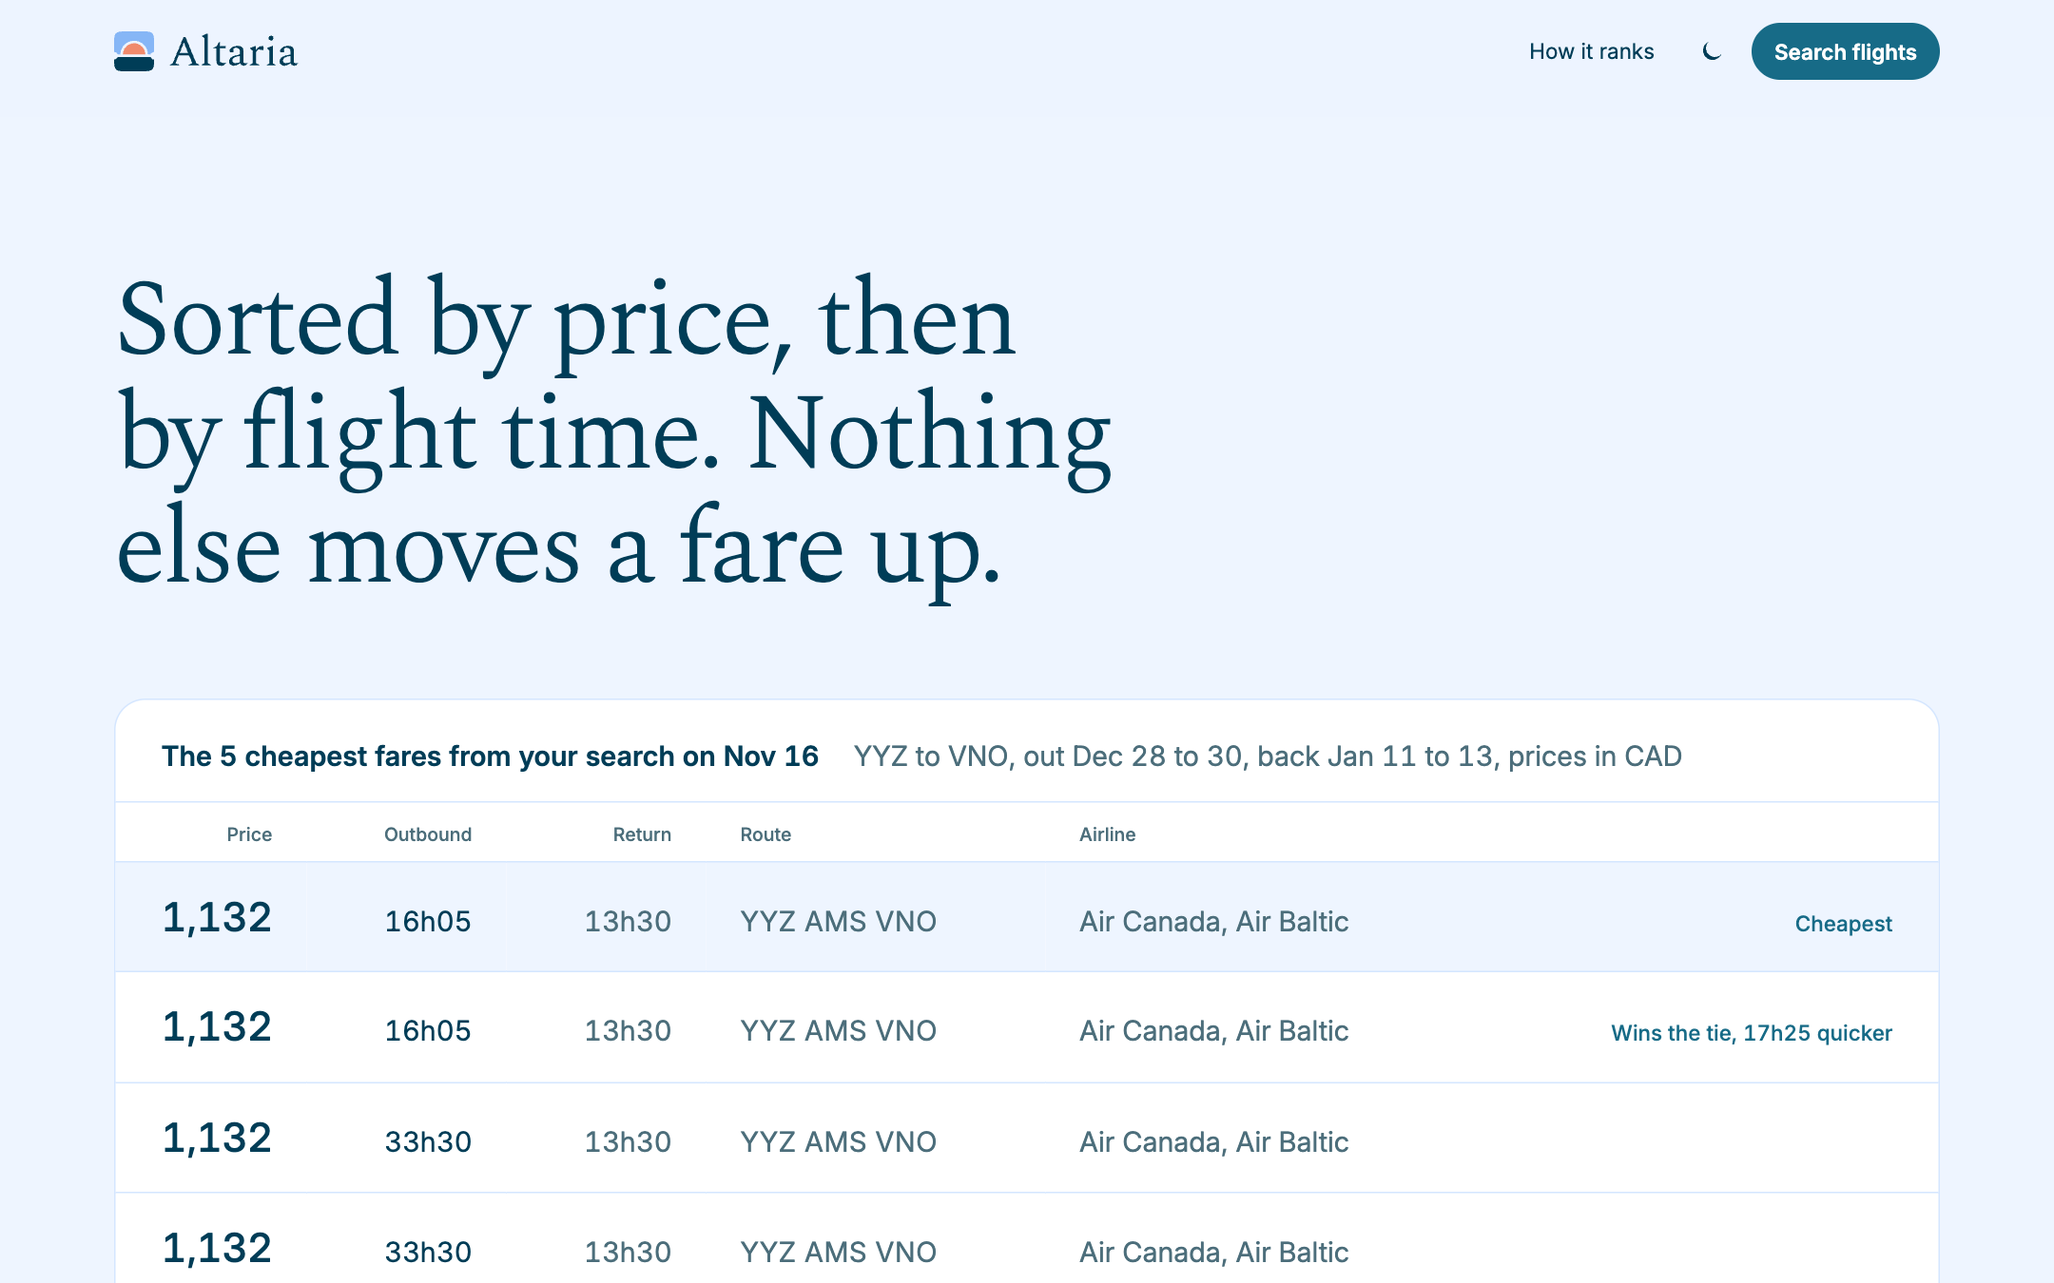
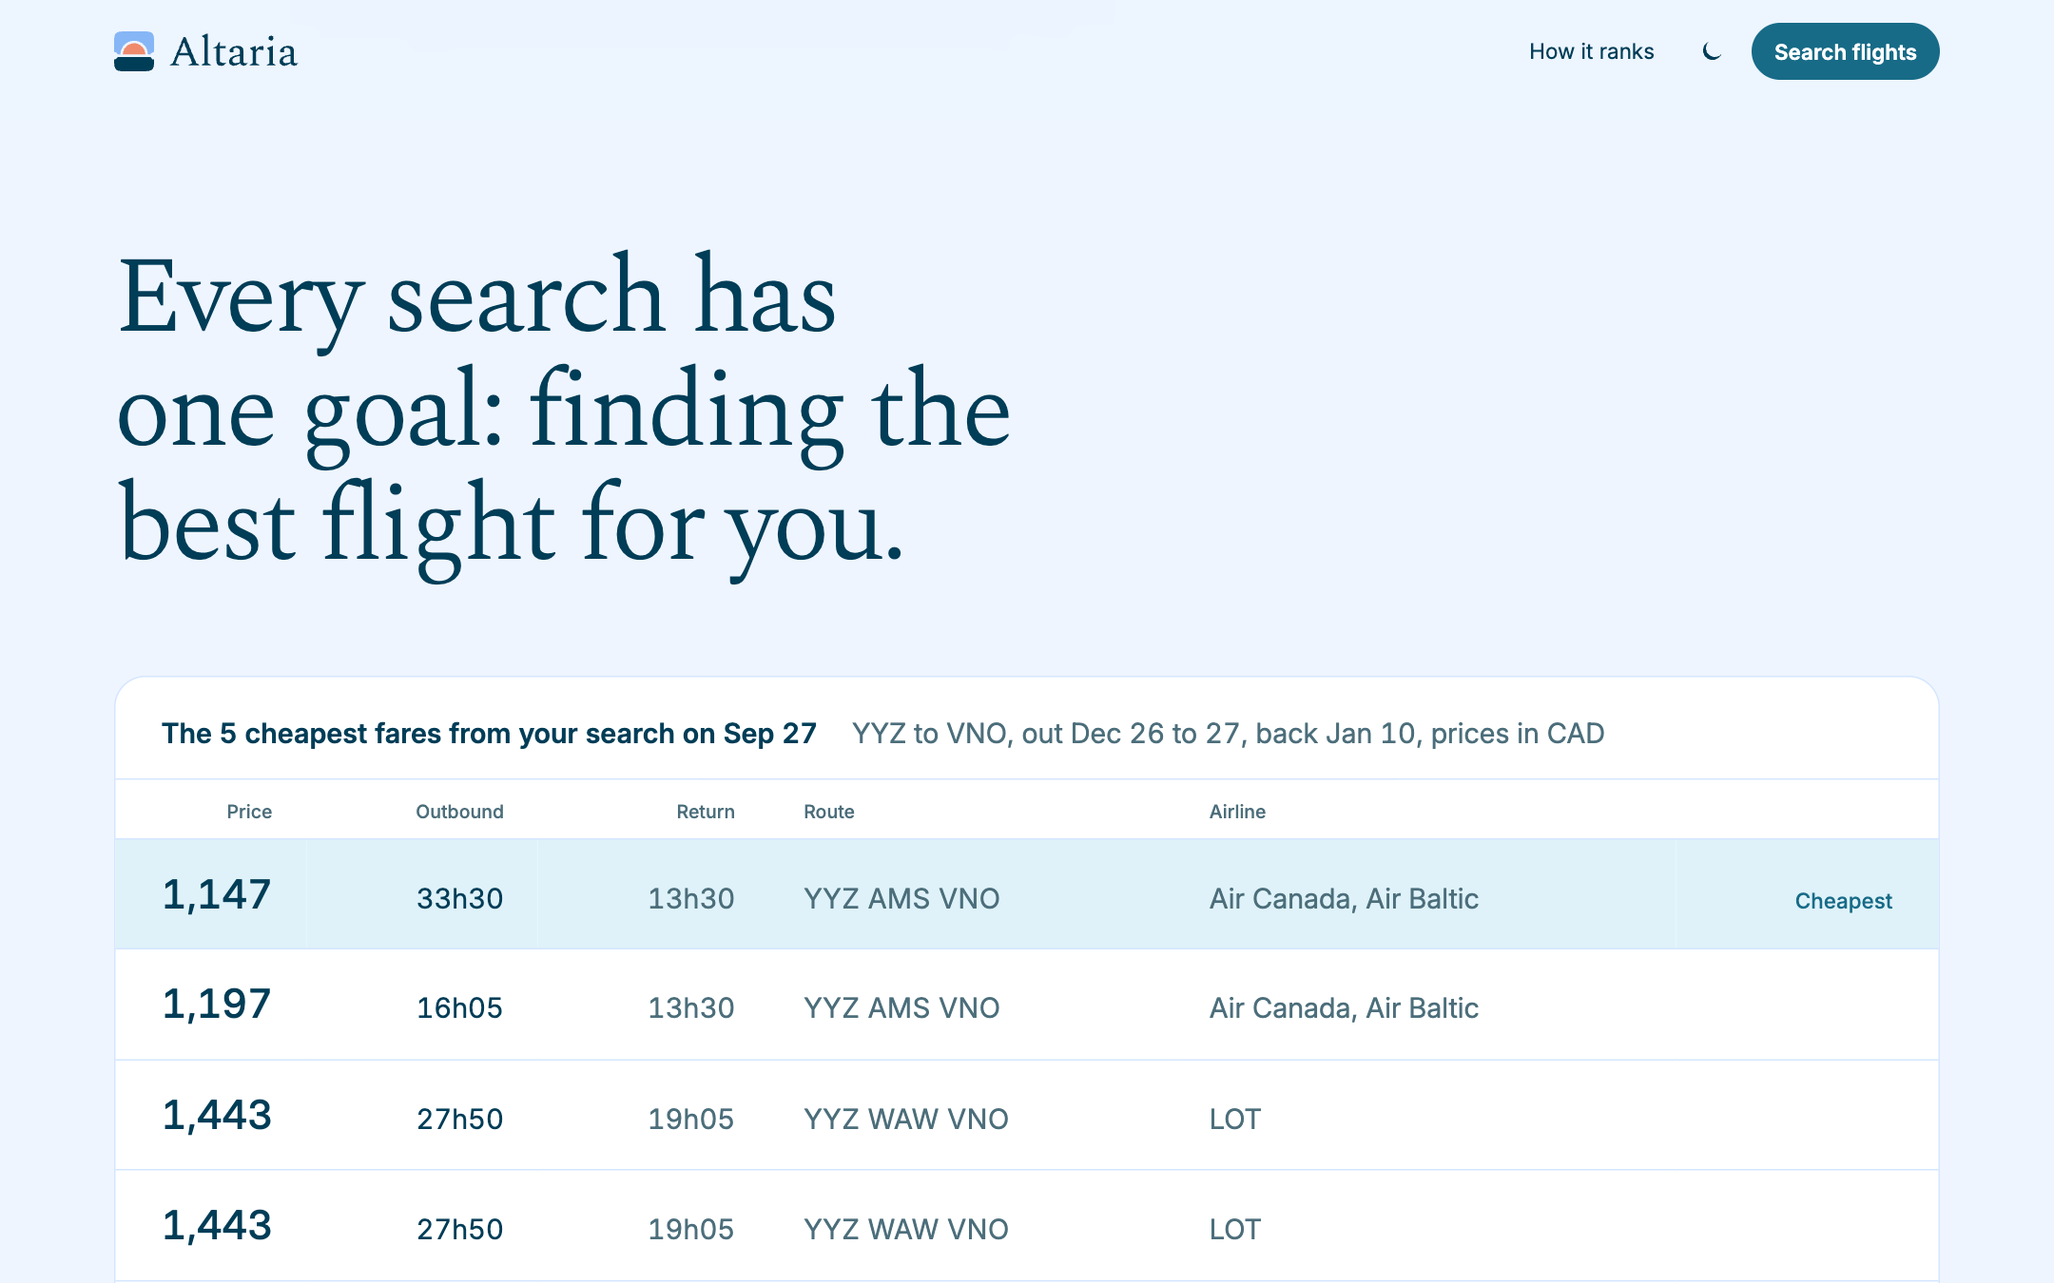
Update README, docs and screenshots

diff --git a/README.md b/README.md
@@ -1,8 +1,10 @@
 # Altaria
 
-A flight search you run yourself. It prices every pair of dates you give it and sorts round trips by price, then by flight time. Nothing is sponsored, and nothing is estimated: every fare on the page came back from a search.
+A round-trip flight search, ranked for you. It prices every pair of dates you give it and sorts round trips by price, then by flight time. Nothing is sponsored, and nothing is estimated: every fare on the page came back from a search.
 
-![The hero: the headline over a sky of clouds, with a boarding pass holding the cheapest fare of the last search](docs/hero.png)
+Try it at [altaria.macwell.workers.dev](https://altaria.macwell.workers.dev), or run it yourself.
+
+![The hero: "The sky, ranked for you" over a sky of clouds, with a boarding pass holding the cheapest fare of the last search](docs/hero.png)
 
 ## What it does
 
@@ -16,7 +18,7 @@ A flight search you run yourself. It prices every pair of dates you give it and 
 | ![The ranking board: the five cheapest fares of the last search in price order](docs/ranking-board.png) | ![The trip box: a sentence typed in plain English has filled the search blanks](docs/trip-box.png) |
 | ![A finished search at night: the cheapest fare as a headline, then the timetable](docs/results-dark.png) | ![The hero at night](docs/hero-dark.png) |
 
-The fares in these screenshots are from real saved searches. The search shown at night is a saved run replayed and the trip box's answer is a canned one, so taking the screenshots queried neither Google nor a model.
+The fares in these screenshots come from one real saved search, replayed, and the trip box's answer is a canned one, so taking the screenshots queried neither Google nor a model.
 
 ## Run it
 
@@ -30,6 +32,15 @@ cd web && npm install && npm run build && cd ..
 ```
 
 Then open http://localhost:8000. The server listens on 127.0.0.1 only.
+
+The public version is a Cloudflare Worker in `worker/`. Build `web/` first, then from `worker/`:
+
+```
+npx wrangler@4 dev       # http://localhost:8787
+npx wrangler@4 deploy
+```
+
+Its trip reader uses Gemini and needs a `GEMINI_API_KEY`: in `worker/.dev.vars` for `wrangler dev`, and set with `npx wrangler@4 secret put GEMINI_API_KEY` once deployed.
 
 From the command line, with both sources:
 
@@ -45,15 +56,18 @@ search.py   fetch fares (Google Flights, ITA Matrix), normalise, convert currenc
 server.py   standard-library HTTP server: serves the built site, streams each search as Server-Sent Events
 ai.py       the trip reader: a model fills the form's blanks, and every value is checked before the page sees it
 web/        the site: React and Vite in plain JavaScript, plain CSS, no UI kit
+worker/     the public site: a Cloudflare Worker serving the same page and API, Google only, with daily caps
 ```
 
 A search starts in the form's submit handler. The server runs one date pair at a time and streams a plan, then progress for each pair, then the ranked rows. The page shows a segmented progress rail while it waits. Every run is saved, and the newest one feeds the fare pass in the hero and the ranking board.
+
+The Worker runs on Cloudflare's free plan, which allows each request 10ms of CPU and 50 subrequests. So it only checks the query and answers with the plan, and the page runs the search itself, one Google request per call. `web/src/flights.js` is the JavaScript port of `search.py`'s Google side, and `worker/ai.js` ports `ai.py`'s checks. There the fare pass and the board show the visitor's own last search, kept in their browser.
 
 ## Design
 
 The direction is calm, exact and candid. The page belongs to two places: the window seat above the clouds, and the airport's own information, which is timetables, boarding passes and departure boards.
 
-- **Type.** Spectral Light for display lines only, Inter for everything else, both self-hosted with metric-matched fallback faces so the swap moves nothing. The scale is in rem. Flight numbers get a slashed zero, because LO46 puts a letter O beside a zero.
+- **Type.** Spectral Light for display lines only, with its italic for the one stressed word in the headline, and Inter for everything else, all self-hosted with metric-matched fallback faces so the swap moves nothing. The scale is in rem. Flight numbers get a slashed zero, because LO46 puts a letter O beside a zero.
 - **Colour.** One ice and teal ramp in custom properties, light and dark. The richness is kept for three places: the sky, the fare pass and the ranking board.
 - **Signature.** A real value flips into place like a departure board character when it arrives: the pass's codes and fare, an airport when picked, a search's cheapest price, the board's rows. The final text is in the page from the first paint, so the accessible name is always right and nothing shifts.
 - **Scroll.** [Lenis](https://github.com/darkroomengineering/lenis) smooths wheel and trackpad scrolling and drives the hero's scroll scene. Touch, the keyboard and find-in-page stay native, and `web/src/scroll.js` is the only scroll code in the app.
@@ -65,7 +79,7 @@ The direction is calm, exact and candid. The page belongs to two places: the win
 - Everything works by keyboard with a visible focus ring, text pairs meet AA contrast, and the layout holds at a 24px default text size and at 360px wide.
 - `prefers-reduced-motion` gets a still composition and native scrolling. `prefers-reduced-transparency` and `prefers-contrast: more` get a solid header.
 - Measured in headless Chromium on the development Mac: layout shift from the font swap in the hero is 0.0000 at 1440px and 390px, and no frame takes longer than 25ms while scrolling the hero with the sky running.
-- The main bundle is 91.5 kB gzipped and the stylesheet 17.2 kB. The sky's chunk (139 kB gzipped) is fetched after first paint.
+- The main bundle is 92.4 kB gzipped and the stylesheet 19.3 kB. The sky's chunk (143 kB gzipped) is fetched after first paint.
 
 ## The trip reader
 
@@ -77,6 +91,8 @@ Two providers sit behind one small interface, chosen with `ALTARIA_AI`:
 - `claude`: the Claude Code CLI, signed in with your own subscription, run with no tools in an empty temporary folder.
 
 Unset, it tries Ollama and then `claude` on PATH. With neither, the trip box is simply not on the page. The server only answers its own page, one call at a time, so another site open in the browser cannot spend your quota. The Claude route is for your own machine: Anthropic's terms do not allow serving other people through a personal subscription.
+
+The public site reads trips with Gemini instead, under a daily cap.
 
 ## Tests
 
@@ -92,7 +108,7 @@ cd worker && npm test && cd ..            the Cloudflare version's search and tr
 
 ## Known limits
 
-- It runs locally. There is no hosted version, because the searches drive Google Flights from your own machine.
+- The public site shares one daily cap on searches and trip readings among all its visitors. Once the day's searches are used up, it says so instead of showing saved fares.
 - The Google parser reads a private format by position and will break when that format changes. The Matrix source drives the real page in a headless browser and takes about 30 seconds per date pair, which is why the site uses Google only.
 - The styled currency and stops lists need a recent Chromium. Safari and Firefox show their native lists.
 - Before you pay, confirm the fare on the operating airline's own site.
@@ -101,6 +117,6 @@ cd worker && npm test && cd ..            the Cloudflare version's search and tr
 
 - Fares from Google Flights through [fast-flights](https://pypi.org/project/fast-flights/). Airports from [OurAirports](https://ourairports.com/), in the public domain.
 - [Spectral](https://github.com/productiontype/Spectral) and [Inter](https://rsms.me/inter/), both under the SIL Open Font License.
-- The cloud shader is [Vanta.js](https://www.vantajs.com/)'s, after Inigo Quilez's "Clouds", licensed CC BY-NC-SA 3.0, so this project is non-commercial.
+- The sky is by [Vanta.js](https://www.vantajs.com/), after Inigo Quilez's "Clouds" shader, licensed CC BY-NC-SA 3.0, so this project is non-commercial.
 - The split-flap is rewritten from the technique in [React Bits](https://reactbits.dev)' SplitFlapText (MIT with a Commons Clause).
 - The name is shared with a Pokémon. This project is not affiliated with Nintendo, Game Freak or The Pokémon Company.

diff --git a/.claude/agents/site-builder.md b/.claude/agents/site-builder.md
@@ -16,7 +16,7 @@ The system below is in place. Build on it unless the user asks for a new directi
 - **Direction:** this is the user's portfolio piece for software engineering roles, so it should read as the work of a senior frontend engineer and designer: modern, polished, and every choice traceable to a design principle. Its character is calm, exact and candid. Its world is the window seat above the clouds, plus the airport's own information: timetables, boarding passes, departure boards. Its signature is the split flap, where a real value arrives and nowhere else. Restraint over spectacle: one hero moment, large type, real materials (the header's frosted sheet), and nothing decorative that carries no information (no glows, no gradient text). Transitions are gradual, never a hard edge or a sudden switch. The words are plain and short, the kind any good site uses: say what the visitor gets, not how the machinery works. Before hand-building a hard effect, research how the best sites do it or find a proven component, as with Lenis, Vanta and React Bits.
 - **Tokens:** every colour, size, space and duration is a custom property in `web/src/styles/tokens.css`, light in `:root` and dark in `:root[data-theme="dark"]`. Two families, self-hosted from `web/public/fonts/` (`styles/fonts.css`): Spectral Light (`--font-display`) only for display type of 28px and up (the hero's h1, `.statement`, `.search h2`, the pass's fare, a search's lead line), with its italic only for the h1's "you", and Inter (`--font-text`) for everything else, at weights 400, 500 and 600 and never under 13px. Tracking is 0 up to about 20px and tightens only on large type. Figures that line up are tabular; only flight numbers (`.fn`) slash the zero. One rem type scale (`--t-*`), one 4px spacing scale (`--s-*`), and one shared edge (`--edge`) that every section aligns to. Prose stops at `--measure`. Menus that open over the page sit on `--raised`; depth by day is `--shadow` (small, soft, neutral), and at night it comes from surface steps and hairlines (`--shadow: none`). `--header` is the fixed header's height and the page's one scroll offset (`scroll-padding-top` on `html`). Use an existing token before adding one.
 - **Palette:** ice blue and teal. An ice page (`--paper` #EEF5FF), a daylight sky from #86B6F6 to #B4D4FF, a deep teal ink (`--ink` #003D57, `--ink-2` #4C6E7B) and one teal accent (`--accent`, `--accent-text` #176B87). Dark is the same family at night: navy-teal surfaces and sky, with the teal lifted to #64C3E2 under a dark label. Light is the default, and the header toggle remembers dark. Check every new pair at 4.5:1 for text and 3:1 for field underlines.
-- **Sections (`App.jsx`):** Header; Hero (the headline, lede, button and fare pass over the sky); How it ranks (the statement in Spectral, the ranking board, three principles); Search (heading, one supporting line, the thread of searches, the composer); Footer (lockup and page links, the credits). The product name lives in `web/src/brand.js` (`NAME`) and nowhere else: the title (`%NAME%` in `index.html`, filled by a plugin in `vite.config.js`), the lede, the footer and alt text. `example.js` fetches `/api/example` once for the pass and the board.
+- **Sections (`App.jsx`):** Header; Hero (the headline, lede, button and fare pass over the sky); How it ranks (the statement in Spectral, the ranking board, three principles); Search (heading, one supporting line, the thread of searches, the composer); Footer (lockup and page links, the credits). The product name lives in `web/src/brand.js` (`NAME`) and nowhere else: the title (`%NAME%` in `index.html`, filled by a plugin in `vite.config.js`), the lede, the footer and alt text. `example.js` fetches `/api/example` once for the pass and the board; the public site (`worker/`, in CLAUDE.md) answers null there, and `example.js` shows the visitor's own last search, kept in their browser.
 - **Split flaps (`web/src/bits/Flap.jsx`, after React Bits' SplitFlapText; MIT plus Commons Clause, so it stays in `bits/` with its attribution header):** real values flip in like a departure board, and only these: the pass's codes and fare on load, an airport code when picked, a turn's lead price, and the board's rows when it comes into view. The final text sits in place from the first paint, so the accessible name and the line box never change; the moving glyphs are an `aria-hidden` layer; reduced motion shows the text at once.
 - **Ranking board (`Board.jsx`):** up to five fares from the newest saved search (`/api/example`'s `rows`), in search.py's order, flipping in row by row when 40% in view. Price and outbound length, the two sort keys, are in full ink and the rest in `--ink-2`; the cheapest row is tinted `--cheapest` (the accent's hue washed out, #DFF2F9 by day, never the paper's colour, or the row reads as a hole in the card; the results table's top row uses it too, and `--wash` stays the paper's colour for fields and hovers) and marked; a tie is marked only when two fares share a price. No saved search, no board. A container query sets one line a fare from 54rem and two lines below.
 - **Header:** bare over the sky, and by day it wears the kit's ink lockup there (`altaria-lockup-ink.svg`), since the colour lockup's sky half vanishes into the sky. Its backing comes in with the scroll, eased, never at a threshold: Hero.jsx works out `--backing` (0 to 1) over the scene's last quarter on wide screens and over the first 64px elsewhere, and App.jsx writes it straight to the header. As it comes in, the ink lockup crosses to the colour one (stacked, with `plus-lighter`, so the wordmark never dims); at night the dark lockup stays. The backing is one sheet of frosted material (`.nav::before`): a 40px backdrop blur with `saturate(1.5)` under an 82% paper tint, whole for the bar's full height, so nothing passing beneath can be read or made out, only its colour. Below the bar it has no edge and no hairline: a single mask takes the blur and the tint out together along a smoothstep over 24px, with a quarter of it left at the scroll stop and none 8px on (lengthen it only together with the stop). Keep it one layer under one mask: stacked blur layers show as bands, and a tint masked apart from its blur leaves a darker band part-way down. The sheet runs on 56px further, unseen, so the blur sees what is about to pass under the bar. It's a solid bar with a hairline under `prefers-reduced-transparency`, `prefers-contrast: more` or without `backdrop-filter`. The theme toggle swaps day and night at once, in the page itself, while the sky blends over: a view transition shows the page as a snapshot, and the header's blur drops out of it for as long as it runs.

diff --git a/CLAUDE.md b/CLAUDE.md
@@ -33,7 +33,7 @@ Run `.venv/bin/python server.py`, then open http://localhost:8000. It listens on
 - **Currencies:** only the 30 that api.frankfurter.dev converts will work. Matrix quotes in CAD here, so any other code makes a CLI Matrix run fail mid-search. The page's currency dropdown lists exactly those 30.
 - **Tests:** `npm test` in `web/` runs the unit tests in `web/test/` (Node's own runner, no dependencies) on the page's plain modules. `.venv/bin/python tests/test_site.py` drives the built site in headless Chromium against `server.py` in-process: searches replay `tests/test_site_run.json` (the first rows of a real run), the model is a stand-in, and nothing is written to `results/`. Build first.
 - **Checking the site:** run `npm run build`, then serve in-process on a free port with `ThreadingHTTPServer(("127.0.0.1", 0), server.Handler)` and drive it with Playwright. Port 8000 is usually the user's own server, and OrbStack holds 8001.
-- **Public site (`worker/`):** a Cloudflare Worker for the free plan, not deployed yet. It serves `web/dist/` and the same API in JavaScript, Google only: `web/src/flights.js` ports search.py's Google side and `worker/ai.js` ports ai.py's checks with Gemini reading (`GEMINI_API_KEY` secret). The free plan allows 10ms of CPU and 50 subrequests a request, so its `/api/search` only checks the query and answers a plan with `drive: true`, and the page runs it (`web/src/drive.js`) through `/api/google`, one Google request per call. A Durable Object (`Caps`) counts Google requests and Gemini readings per UTC day. A search never shows saved fares in place of its own: once the day's Google requests are used up, it says so. Its `/api/example` answers null, so the fare pass and board show the visitor's own last search, kept in their browser by `web/src/example.js`. Build `web/` first, then `cd worker && npx wrangler@4 dev` (http://localhost:8787).
+- **Public site (`worker/`):** a Cloudflare Worker on the free plan, live at https://altaria.macwell.workers.dev. It serves `web/dist/` and the same API in JavaScript, Google only: `web/src/flights.js` ports search.py's Google side and `worker/ai.js` ports ai.py's checks with Gemini reading (`GEMINI_API_KEY` secret). The free plan allows 10ms of CPU and 50 subrequests a request, so its `/api/search` only checks the query and answers a plan with `drive: true`, and the page runs it (`web/src/drive.js`) through `/api/google`, one Google request per call. A Durable Object (`Caps`) counts Google requests and Gemini readings per UTC day. A search never shows saved fares in place of its own: once the day's Google requests are used up, it says so. Its `/api/example` answers null, so the fare pass and board show the visitor's own last search, kept in their browser by `web/src/example.js`. Build `web/` first, then `cd worker && npx wrangler@4 dev` (http://localhost:8787), or `npx wrangler@4 deploy` from `worker/` to publish.
 - **Design work:** send it to the `site-builder` agent, whose brief is in `.claude/agents/site-builder.md`. It only loads when Claude is started from this folder. Run one agent on `web/` at a time, since two agents editing the same files overwrite each other.
 
 ## Claude's job here
